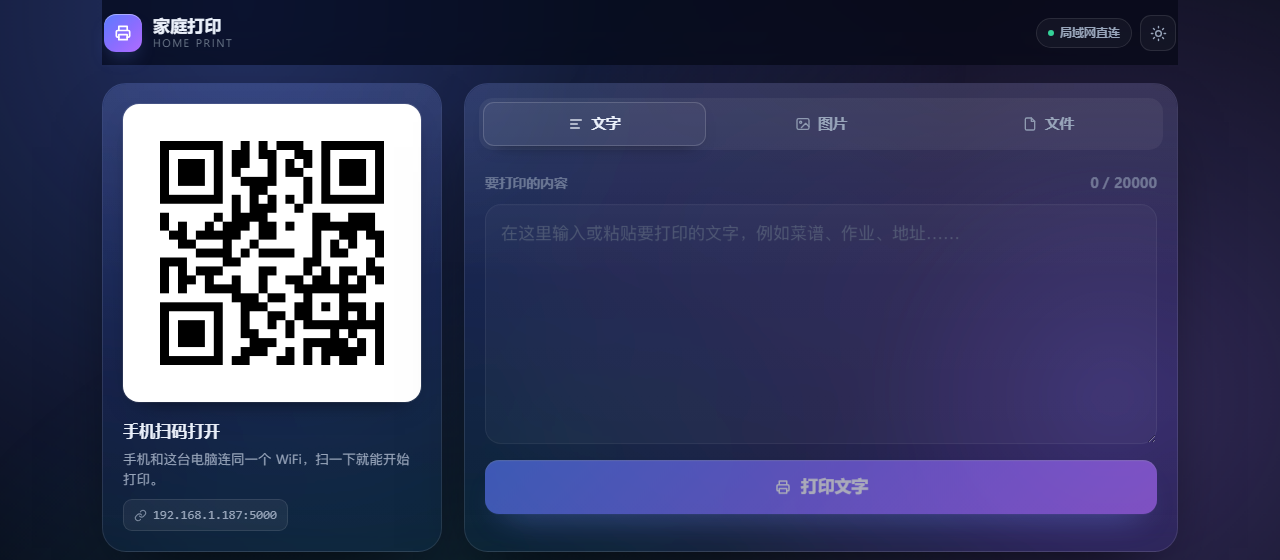
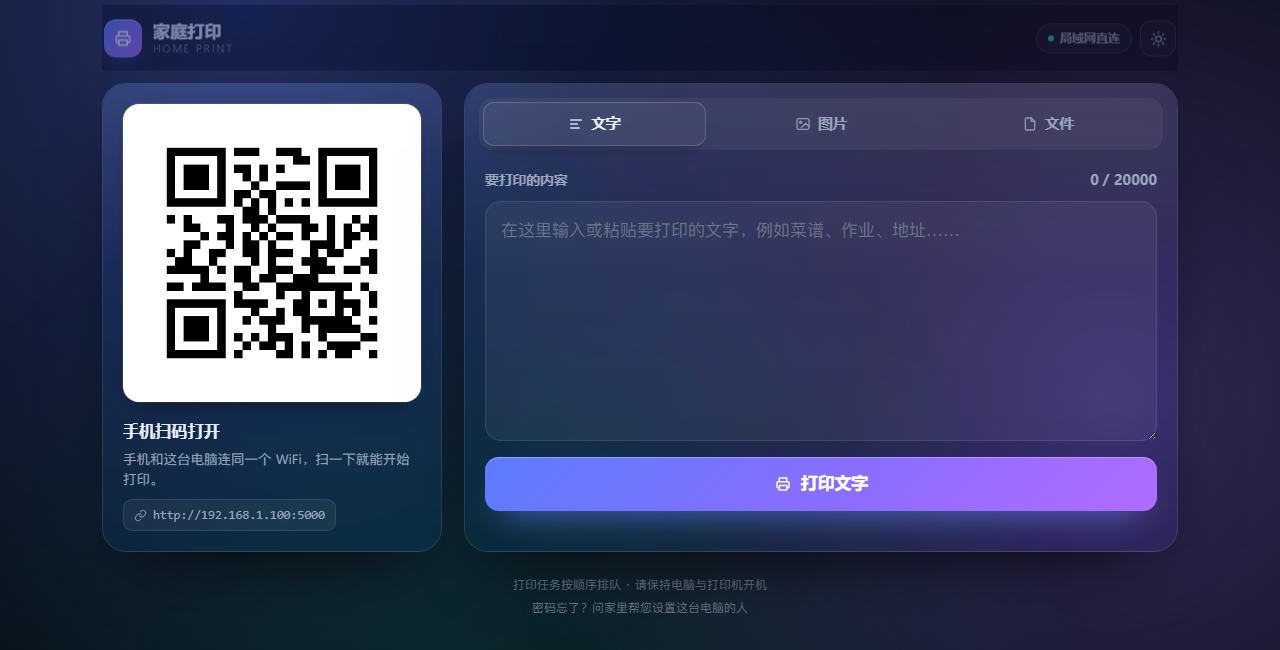
仓库首页改版：README 视觉与导航升级
- 徽章刷新为 1.1.0，新增 CI（GitHub Actions）与 Issues 徽章，版本徽章链接 CHANGELOG
- 新增「三步跑起来」代码块与顶部快速导航锚点行
- 目录改为可折叠分组（开始之前 / 装和用 / 想知道更多 / 维护）
- 新增「这版有什么不一样」亮点对照表，突出双主题、启动性能、启动动画、响应式
- 页面预览区重排：桌面深色截图作主图，浅色主题/手机页/密码页/启动动画收入折叠区并支持点击看大图
- 重截全部截图（按真实渲染裁边），新增桌面浅色、启动动画两张
- 新增 docs/social-preview.png（1280x640）用于仓库分享封面
- README_EN 同步改版并校验全部锚点与相对链接

diff --git a/README.md b/README.md
@@ -2,17 +2,17 @@
 
 <img src="assets/banner.svg" alt="家庭内网打印：微信扫码，打印文字、照片和文件" width="100%" />
 
-# 家庭内网打印
-
 **让爸妈和孩子也会用的家庭打印工具。手机连上同一个 WiFi，微信扫码，输入密码，打字、选照片，或从手机/微信聊天记录里选文件，预览后一键打印。**
 
-[简体中文](README.md) · [English](README_EN.md)
+简体中文 · [English](README_EN.md)
 
-[![Version](https://img.shields.io/badge/version-1.0.2-0B3D91?style=flat-square)](https://github.com/ShirakawaFM/family-lan-printer/releases)
+[![Version](https://img.shields.io/badge/version-1.1.0-8B5CF6?style=flat-square&logo=github&logoColor=white)](CHANGELOG.md)
+[![CI](https://github.com/ShirakawaFM/family-lan-printer/actions/workflows/python-check.yml/badge.svg)](https://github.com/ShirakawaFM/family-lan-printer/actions/workflows/python-check.yml)
 [![Python](https://img.shields.io/badge/Python-3.10%2B-3776AB?style=flat-square&logo=python&logoColor=white)](https://www.python.org/)
 [![Windows](https://img.shields.io/badge/Windows-10%20%2F%2011-0078D4?style=flat-square&logo=windows&logoColor=white)](https://www.microsoft.com/windows)
 [![Flask](https://img.shields.io/badge/Flask-3.x-000000?style=flat-square&logo=flask&logoColor=white)](https://flask.palletsprojects.com/)
 [![License](https://img.shields.io/badge/license-MIT-22c55e?style=flat-square)](LICENSE)
+[![Issues](https://img.shields.io/github/issues/ShirakawaFM/family-lan-printer?style=flat-square&color=F59E0B)](https://github.com/ShirakawaFM/family-lan-printer/issues)
 [![Stars](https://img.shields.io/github/stars/ShirakawaFM/family-lan-printer?style=social)](https://github.com/ShirakawaFM/family-lan-printer/stargazers)
 
 </div>
@@ -23,27 +23,69 @@
 
 ---
 
+## 三步跑起来
+
+<div align="center">
+<code>① 装依赖</code>&nbsp; → &nbsp;<code>② 改密码</code>&nbsp; → &nbsp;<code>③ 启动扫码打印</code>
+</div>
+
+```bat
+:: ① 装依赖（只需一次）
+python -m pip install -r requirements.txt
+
+:: ② 改密码：打开 print_server.py 顶部 ACCESS_PASSWORD
+::    把默认的 123456 换成家里自己的密码
+
+:: ③ 启动：控制台会打印二维码地址，并把 qr_wall.png 打印出来贴墙上
+python print_server.py
+```
+
+手机上没有 App、不用注册，也不用连外网：**连同一个 WiFi → 微信扫墙上的二维码 → 输入密码 → 打印。** 完整步骤见 [快速开始](#快速开始)。
+
+<div align="center">
+<a href="#快速开始">🚀 快速开始</a>&nbsp; · &nbsp;<a href="#页面预览">🖼 页面预览</a>&nbsp; · &nbsp;<a href="#配置项">🔧 配置项</a>&nbsp; · &nbsp;<a href="#安全设计">🛡 安全设计</a>&nbsp; · &nbsp;<a href="#常见问题-faq">❓ 常见问题</a>&nbsp; · &nbsp;<a href="README_EN.md">🌐 English</a>
+</div>
+
+---
+
+## 这版有什么不一样
+
+| ✨ 亮点 | 说明 |
+| :--- | :--- |
+| 🎨 **现代动态界面** | 深浅色双主题（跟随系统，右上角可手动切换）、渐变光晕背景、玻璃质感卡片、弹簧微动效与 Toast 轻提示 |
+| ⚡ **不到 1 秒启动** | 重型依赖按需加载、端口先绑定，首屏 gzip 后仅 ~4~16 KB，二次打开走 304 协商缓存 |
+| 🎬 **品牌启动动画** | 约 1 秒的品牌 Splash，资源就绪后模糊淡出；系统开启「减弱动态效果」时自动降级 |
+| 📱 **真的响应式** | 桌面双栏、手机单栏；手机上扫码卡压成横条，进页面就能直接看到输入框 |
+| 📊 **上传有反馈** | 真实上传进度条 + 文件预览骨架屏，不再是「点了没反应」 |
+| 👴 **仍然适老友好** | 正文不小于 16px、按钮通栏 56px 高、高对比配色，老人和小孩的触屏操作不受影响 |
+
+---
+
 ## 目录
 
-- [项目简介](#项目简介)
-- [页面预览](#页面预览)
-- [功能特性](#功能特性)
-- [工作原理](#工作原理)
-- [快速开始](#快速开始)
-- [使用流程](#使用流程)
-- [配置项](#配置项)
-- [打印规则](#打印规则)
-- [安全设计](#安全设计)
-- [公网部署包（傻瓜式）](#公网部署包傻瓜式)
-- [Windows 开机自启](#windows-开机自启)
-- [项目结构](#项目结构)
-- [性能与资源占用](#性能与资源占用)
-- [已知限制](#已知限制)
-- [常见问题 FAQ](#常见问题-faq)
-- [开发与测试](#开发与测试)
-- [贡献](#贡献)
-- [许可证](#许可证)
-- [免责声明](#免责声明)
+<details open>
+<summary><b>展开 / 收起（21 节）</b></summary>
+
+**开始之前**
+
+- [这版有什么不一样](#这版有什么不一样) · [三步跑起来](#三步跑起来)
+- [项目简介](#项目简介) · [页面预览](#页面预览) · [功能特性](#功能特性)
+
+**装和用**
+
+- [工作原理](#工作原理) · [快速开始](#快速开始) · [使用流程](#使用流程)
+- [打印规则](#打印规则) · [公网部署包（傻瓜式）](#公网部署包傻瓜式) · [Windows 开机自启](#windows-开机自启)
+
+**想知道更多**
+
+- [配置项](#配置项) · [安全设计](#安全设计) · [性能与资源占用](#性能与资源占用)
+- [项目结构](#项目结构) · [已知限制](#已知限制) · [常见问题 FAQ](#常见问题-faq)
+
+**维护**
+
+- [开发与测试](#开发与测试) · [贡献](#贡献) · [许可证](#许可证) · [免责声明](#免责声明)
+
+</details>
 
 ---
 
@@ -71,11 +113,43 @@
 
 ## 页面预览
 
-> 截图里的二维码是演示链接，不是真实可扫地址。
+### 桌面端 · 深色主题（默认跟随系统）
 
-| 密码页 | 打印主页（桌面端深色） | 打印主页（手机端浅色） |
-| :---: | :---: | :---: |
-| <img src="docs/screenshot-login.png" alt="输入使用密码" width="260" /> | <img src="docs/screenshot-print.png" alt="桌面端打印主页" width="420" /> | <img src="docs/screenshot-print-mobile.png" alt="手机端打印主页" width="230" /> |
+> 截图里的二维码是演示链接 `http://192.168.1.100:5000`，不是真实可扫地址。
+
+<div align="center">
+<a href="docs/screenshot-print.png"><img src="docs/screenshot-print.png" alt="桌面端打印主页（深色主题）" width="820" /></a>
+</div>
+
+<details>
+<summary><b>浅色主题 / 手机端 / 密码页 / 启动动画</b></summary>
+
+<br>
+
+<table>
+<tr>
+<td align="center" width="50%">
+<a href="docs/screenshot-print-light.png"><img src="docs/screenshot-print-light.png" alt="桌面端打印主页（浅色主题）" width="100%" /></a>
+<br><sub><b>桌面端 · 浅色主题</b>：右上角可一键切换，跟随系统偏好自动记忆</sub>
+</td>
+<td align="center" width="50%">
+<a href="docs/screenshot-splash.png"><img src="docs/screenshot-splash.png" alt="品牌启动动画" width="100%" /></a>
+<br><sub><b>品牌启动动画</b>：约 1 秒，资源就绪后模糊淡出</sub>
+</td>
+</tr>
+<tr>
+<td align="center" width="50%">
+<a href="docs/screenshot-login.png"><img src="docs/screenshot-login.png" alt="手机密码页" width="60%" /></a>
+<br><sub><b>手机密码页</b>：全家共用一个密码，不是注册登录</sub>
+</td>
+<td align="center" width="50%">
+<a href="docs/screenshot-print-mobile.png"><img src="docs/screenshot-print-mobile.png" alt="手机端打印主页" width="60%" /></a>
+<br><sub><b>手机打印主页</b>：扫码卡压成横条，进页面就能看到输入框</sub>
+</td>
+</tr>
+</table>
+
+</details>
 
 界面整体是现代动态风格：深浅色双主题（跟随系统，右上角可手动切换）、渐变光晕背景、玻璃质感卡片、弹簧动效；打开主页有约 1 秒的品牌启动动画，就绪后自动淡出。按钮仍然是大尺寸通栏设计（56px 高、16px 以上字号），老人和小孩的触屏操作不受影响。手机端扫码卡片压缩成横条，进页面就能直接看到输入框，不用先滑过二维码。文件先显示前 3 页预览，确认后再打印全部页面。
 
@@ -455,8 +529,12 @@ family-lan-printer/
 │  ├─ divider.svg                # 章节分隔线
 │  └─ footer.svg                 # 页脚签名
 ├─ docs/
-│  ├─ screenshot-login.png
-│  └─ screenshot-print.png
+│  ├─ screenshot-print.png          # 桌面端深色主页（README 主图）
+│  ├─ screenshot-print-light.png    # 桌面端浅色主页
+│  ├─ screenshot-print-mobile.png   # 手机端主页
+│  ├─ screenshot-login.png          # 手机端密码页
+│  ├─ screenshot-splash.png         # 品牌启动动画
+│  └─ social-preview.png            # GitHub 仓库社交分享图（在 Settings → Social preview 上传）
 ├─ deploy-public/                 # 公网部署包：填写单、脚本、HTTPS 教程
 │  ├─ 00-先看-公网部署教程.md
 │  ├─ 01-先填-部署信息.txt

diff --git a/README_EN.md b/README_EN.md
@@ -2,21 +2,45 @@
 
 <img src="assets/banner-en.svg" alt="Family LAN Print: scan with WeChat, print text, photos and files" width="100%" />
 
-# Family LAN Print
-
 **A dead-simple home print server for Windows. Phones on the same Wi-Fi scan a QR code, enter a shared password, and print text, photos, or files from the phone / WeChat chat history.**
 
-[简体中文](README.md) · [English](README_EN.md)
+English · [简体中文](README.md)
 
-[![Version](https://img.shields.io/badge/version-1.0.2-0B3D91?style=flat-square)](https://github.com/ShirakawaFM/family-lan-printer/releases)
+[![Version](https://img.shields.io/badge/version-1.1.0-8B5CF6?style=flat-square&logo=github&logoColor=white)](CHANGELOG.md)
+[![CI](https://github.com/ShirakawaFM/family-lan-printer/actions/workflows/python-check.yml/badge.svg)](https://github.com/ShirakawaFM/family-lan-printer/actions/workflows/python-check.yml)
 [![Python](https://img.shields.io/badge/Python-3.10%2B-3776AB?style=flat-square&logo=python&logoColor=white)](https://www.python.org/)
 [![Windows](https://img.shields.io/badge/Windows-10%20%2F%2011-0078D4?style=flat-square&logo=windows&logoColor=white)](https://www.microsoft.com/windows)
 [![License](https://img.shields.io/badge/license-MIT-22c55e?style=flat-square)](LICENSE)
+[![Issues](https://img.shields.io/github/issues/ShirakawaFM/family-lan-printer?style=flat-square&color=F59E0B)](https://github.com/ShirakawaFM/family-lan-printer/issues)
 [![Stars](https://img.shields.io/github/stars/ShirakawaFM/family-lan-printer?style=social)](https://github.com/ShirakawaFM/family-lan-printer/stargazers)
 
 </div>
 
 > This is **not** cloud printing. Text, images and files stay on your Windows PC and are deleted 30 seconds after each print job. Files that are only previewed are cleaned up after 30 minutes. No accounts, no telemetry, no ads.
+
+---
+
+## Three steps to run it
+
+<div align="center">
+<code>① install deps</code>&nbsp; → &nbsp;<code>② set the password</code>&nbsp; → &nbsp;<code>③ start &amp; scan</code>
+</div>
+
+```bat
+:: 1) deps (once)
+python -m pip install -r requirements.txt
+
+:: 2) open print_server.py and change ACCESS_PASSWORD (default: 123456)
+
+:: 3) start the server, print qr_wall.png and stick it next to the printer
+python print_server.py
+```
+
+No app, no sign-up, no internet needed: **join the same Wi-Fi → scan the QR with WeChat → enter the password → print.** Full walkthrough in [Quick start](#quick-start) below.
+
+<div align="center">
+<a href="#why">💡 Why</a>&nbsp; · &nbsp;<a href="#preview">🖼 Preview</a>&nbsp; · &nbsp;<a href="#features">✨ Features</a>&nbsp; · &nbsp;<a href="#how-it-works">⚙ How it works</a>&nbsp; · &nbsp;<a href="#configuration">🔧 Config</a>&nbsp; · &nbsp;<a href="#faq">❓ FAQ</a>&nbsp; · &nbsp;<a href="README.md">🇨🇳 中文</a>
+</div>
 
 ---
 
@@ -32,11 +56,43 @@ This project reduces it to:
 
 ## Preview
 
-> The QR code in the screenshots is a demo link, not a real address.
+### Desktop · dark theme (follows the system by default)
 
-| Password page | Print page (desktop, dark) | Print page (mobile, light) |
-| :---: | :---: | :---: |
-| <img src="docs/screenshot-login.png" alt="Password page" width="260" /> | <img src="docs/screenshot-print.png" alt="Desktop print page" width="420" /> | <img src="docs/screenshot-print-mobile.png" alt="Mobile print page" width="230" /> |
+> The QR code in the screenshots is a demo link (`http://192.168.1.100:5000`), not a real address.
+
+<div align="center">
+<a href="docs/screenshot-print.png"><img src="docs/screenshot-print.png" alt="Desktop print page (dark theme)" width="820" /></a>
+</div>
+
+<details>
+<summary><b>Light theme / mobile / password page / splash</b></summary>
+
+<br>
+
+<table>
+<tr>
+<td align="center" width="50%">
+<a href="docs/screenshot-print-light.png"><img src="docs/screenshot-print-light.png" alt="Desktop print page (light theme)" width="100%" /></a>
+<br><sub><b>Desktop · light theme</b> — toggle in the top-right corner, follows the system preference</sub>
+</td>
+<td align="center" width="50%">
+<a href="docs/screenshot-splash.png"><img src="docs/screenshot-splash.png" alt="Branded splash animation" width="100%" /></a>
+<br><sub><b>Branded splash</b> — ~1 s, fades out as soon as the page is ready</sub>
+</td>
+</tr>
+<tr>
+<td align="center" width="50%">
+<a href="docs/screenshot-login.png"><img src="docs/screenshot-login.png" alt="Password page" width="60%" /></a>
+<br><sub><b>Password page</b> — one shared family password, no sign-up</sub>
+</td>
+<td align="center" width="50%">
+<a href="docs/screenshot-print-mobile.png"><img src="docs/screenshot-print-mobile.png" alt="Mobile print page" width="60%" /></a>
+<br><sub><b>Mobile print page</b> — the QR card collapses into a strip so the input is visible immediately</sub>
+</td>
+</tr>
+</table>
+
+</details>
 
 The UI uses a modern, motion-rich style: dark/light themes (follows the system, manual toggle included), gradient glow background, glassy cards, tabbed print modes and spring micro-interactions. A ~1 s branded splash animation plays on the print page and fades out as soon as the page is ready. Buttons stay large and full-width (56 px tall, 16 px+ font) so touch use by kids and grandparents is unaffected.
 

diff --git a/CHANGELOG.md b/CHANGELOG.md
@@ -17,6 +17,12 @@
 - 主页 HTML 增加 gzip 压缩与 ETag 协商缓存：首屏传输 25 KB（无压缩）降到约 4~16 KB，二次打开直接 304。
 - Jinja 模板进程内预编译，页面渲染不再每次重新解析模板。
 
+### 文档
+
+- README / README_EN 仓库首页改版：版本号与 CI/Issues 徽章刷新，新增「三步跑起来」代码块、顶部快速导航、可折叠目录、亮点对照表。
+- 页面预览区重排：桌面端深色截图作为主图，浅色主题 / 手机主页 / 密码页 / 启动动画收入折叠区并支持点击放大。
+- 新增 `docs/social-preview.png`（1280×640），可在仓库 Settings → Social preview 上传，用于分享链接时的封面图。
+
 ### 兼容性说明
 
 - 无新增依赖，`requirements.txt` 不变，仍是单文件部署；`python print_server.py` 的用法、访问密码、打印链路与状态轮询协议完全不变。
